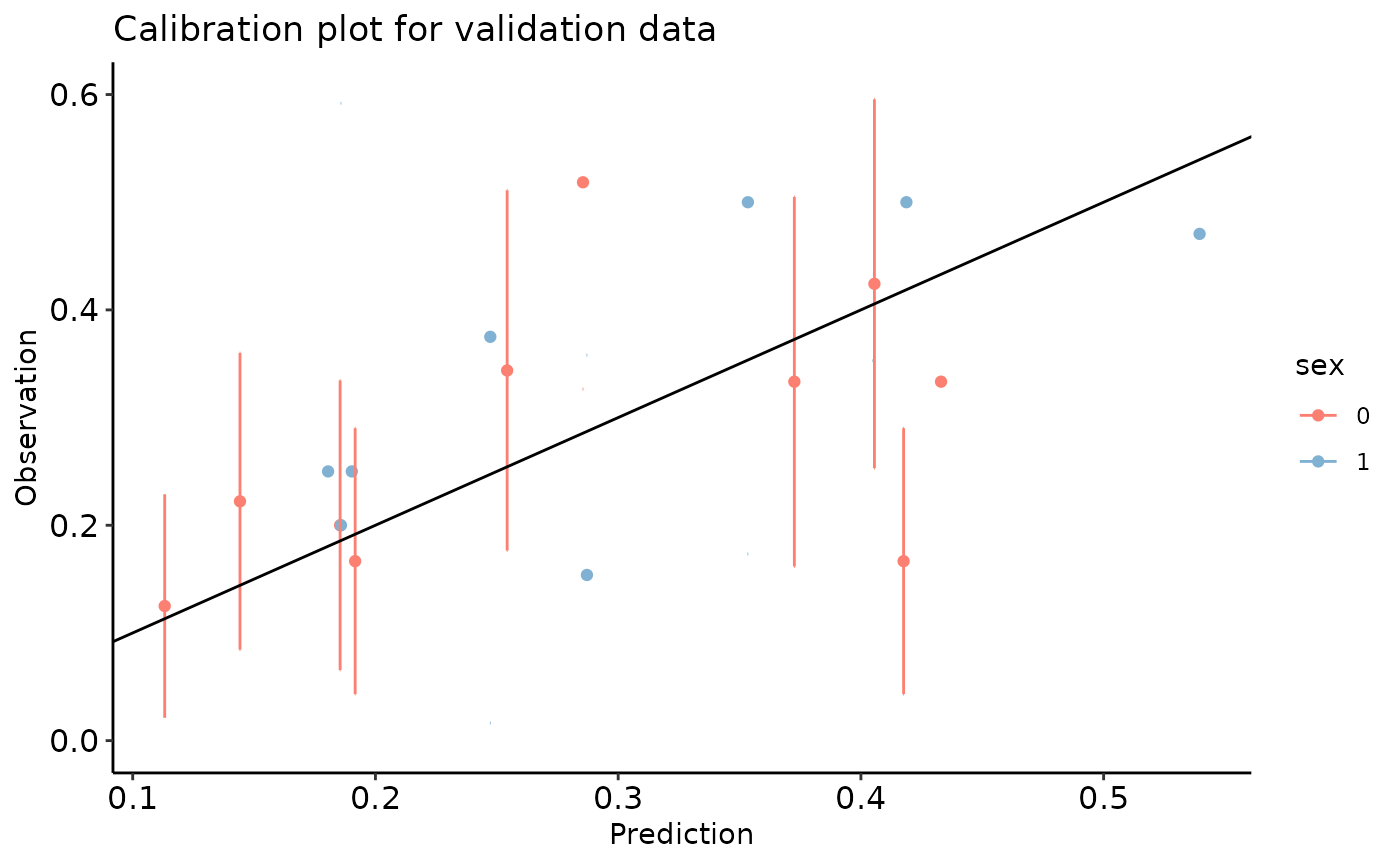
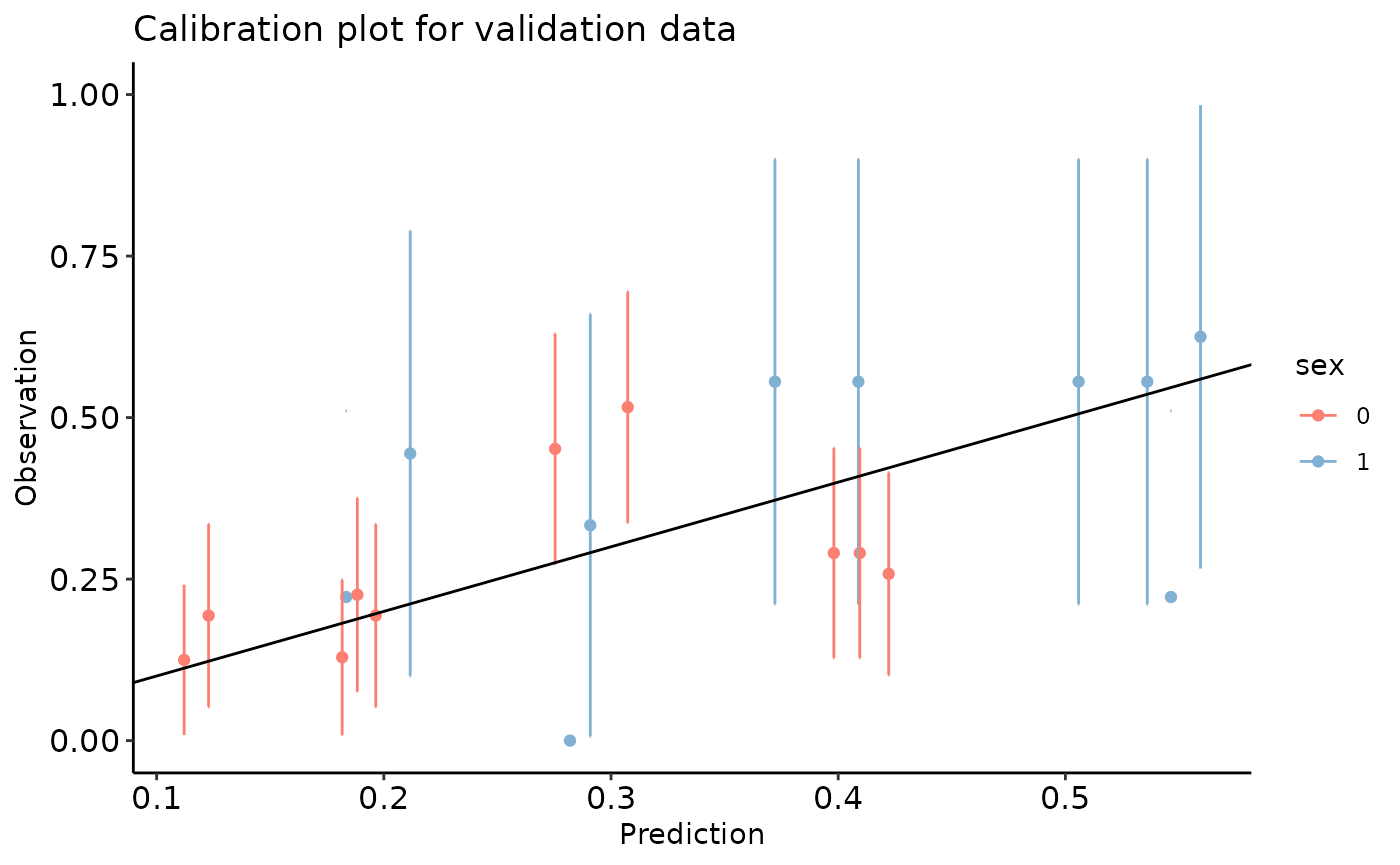
Built site for predtools: 0.0.3@648ee35

diff --git a/articles/calibPlot.html b/articles/calibPlot.html
@@ -228,10 +228,9 @@
 <span><span class="co">#&gt; $calibration_plot</span></span></code></pre></div>
 <p><img src="calibPlot_files/figure-html/unnamed-chunk-6-1.png" width="700"></p>
 <div class="sourceCode" id="cb5"><pre class="downlit sourceCode r">
-<code class="sourceCode R"><span><span class="fu"><a href="../reference/calibration_plot.html">calibration_plot</a></span><span class="op">(</span>data <span class="op">=</span> <span class="va">val_data</span>, obs <span class="op">=</span> <span class="st">"y"</span>, pred <span class="op">=</span> <span class="st">"pred"</span>, y_lim <span class="op">=</span> <span class="fu"><a href="https://rdrr.io/r/base/c.html" class="external-link">c</a></span><span class="op">(</span><span class="fl">0</span>, <span class="fl">0.6</span><span class="op">)</span>,</span>
+<code class="sourceCode R"><span><span class="fu"><a href="../reference/calibration_plot.html">calibration_plot</a></span><span class="op">(</span>data <span class="op">=</span> <span class="va">val_data</span>, obs <span class="op">=</span> <span class="st">"y"</span>, pred <span class="op">=</span> <span class="st">"pred"</span>, y_lim <span class="op">=</span> <span class="fu"><a href="https://rdrr.io/r/base/c.html" class="external-link">c</a></span><span class="op">(</span><span class="fl">0</span>, <span class="fl">1</span><span class="op">)</span>,</span>
 <span>                 title <span class="op">=</span> <span class="st">"Calibration plot for validation data"</span>, group <span class="op">=</span> <span class="st">"sex"</span><span class="op">)</span></span>
-<span><span class="co">#&gt; $calibration_plot</span></span>
-<span><span class="co">#&gt; Warning: Removed 1 rows containing missing values (geom_point).</span></span></code></pre></div>
+<span><span class="co">#&gt; $calibration_plot</span></span></code></pre></div>
 <p><img src="calibPlot_files/figure-html/unnamed-chunk-6-2.png" width="700"></p>
 </div>
   </div>

diff --git a/articles/mROC.html b/articles/mROC.html
@@ -277,9 +277,9 @@
 <code class="sourceCode R"><span><span class="va">res</span><span class="op">&lt;-</span><span class="fu"><a href="../reference/mROC_inference.html">mROC_inference</a></span><span class="op">(</span><span class="va">val_data</span><span class="op">[</span>,<span class="st">'y'</span><span class="op">]</span>,<span class="va">pred</span><span class="op">)</span></span>
 <span></span>
 <span><span class="va">res</span></span>
-<span><span class="co">#&gt; Mean calibration statistic (A):0.00835868(Obs&gt;Pred) (p:0.72288)</span></span>
-<span><span class="co">#&gt; mROC/ROC equality statsitic (B):0.05910898 (p:0.04646)</span></span>
-<span><span class="co">#&gt; Unified statistic:6.794061 (df:3.997141,p:0.1469523)</span></span></code></pre></div>
+<span><span class="co">#&gt; Mean calibration statistic (A):0.00835868(Obs&gt;Pred) (p:0.72475)</span></span>
+<span><span class="co">#&gt; mROC/ROC equality statsitic (B):0.05910898 (p:0.04866)</span></span>
+<span><span class="co">#&gt; Unified statistic:6.726332 (df:4.015076,p:0.1523021)</span></span></code></pre></div>
 </div>
 </div>
   </div>
